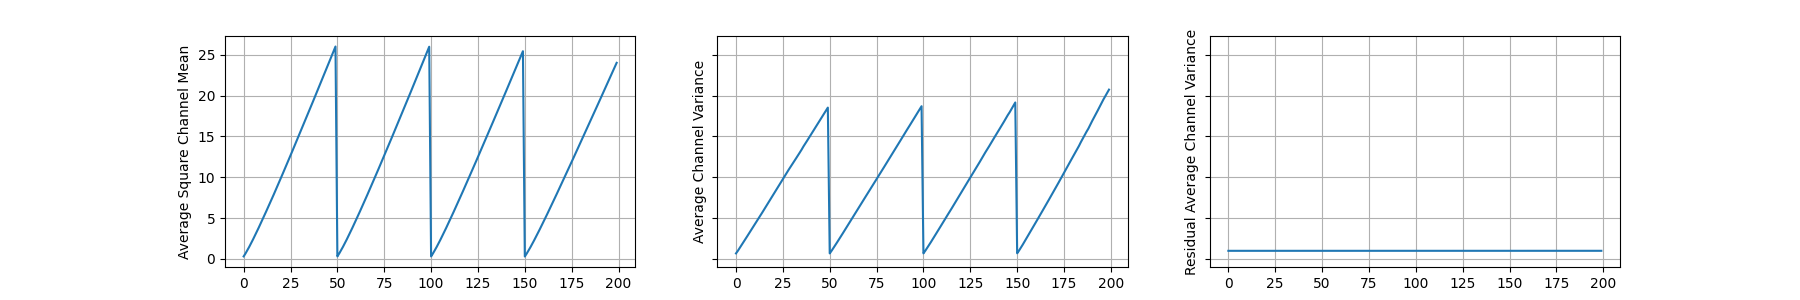
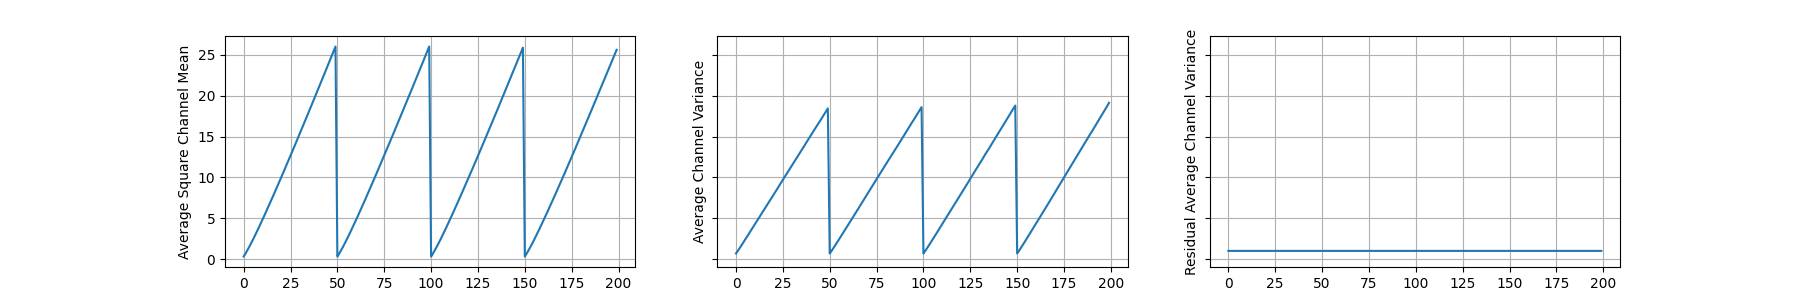
feat: Implement SPPs video

Changed region(s): [[0.1244, 0.21, 0.3422, 0.48], [0.4044, 0.36, 0.6222, 0.57], [0.6844, 0.45, 0.9022, 0.48]]

diff --git a/spp.py b/spp.py
@@ -2,7 +2,7 @@ import torch
 import fnmatch
 from torchvision.models.resnet import _resnet, Bottleneck
 from matplotlib import pyplot as plt
-from matplotlib import animation
+from celluloid import Camera
 
 
 # Model used in Brock et al.,
@@ -51,6 +51,10 @@ class ActivationStatsHook(object):
             module.register_forward_hook(self._create_hook(hook_fn))
             self.info[hook_fn.__name__].append(name)
 
+    def clear_stats(self):
+        hook_fns = self.hook_fns
+        self.stats = dict((hook_fn.__name__, []) for hook_fn in hook_fns)
+
     def extract_spp_stats(self, x=None):
         if x is None:
             input_shape = [8, 3, 224, 224]
@@ -71,8 +75,6 @@ class ActivationStatsAnimation(object):
     def _make_fig(self, ax, data):
         avg_sq_ch_mean, avg_ch_var, avg_ch_var_residual = data
 
-        plt.axes(ylim=(-1, self.y_max))
-
         ax[0].clear()
         ax[0].plot(avg_sq_ch_mean, label="avg_sq_ch_mean")
         ax[0].set_ylabel('Average Square Channel Mean')
@@ -88,21 +90,20 @@ class ActivationStatsAnimation(object):
         ax[2].set_ylabel('Residual Average Channel Variance')
         ax[2].grid()
 
-    # frames of FuncAnimation
-    def _data_gen(self):
-        for k in self.log.keys():
-            yield self.log[k]['avg_sq_ch_mean'], self.log[k]['avg_ch_var'], self.log[k]['avg_ch_var_residual']
-
     def save(self, save_path):
         assert save_path is not None, "There is no `save_path`"
         fig, ax = plt.subplots(1, 3, figsize=(18, 3), sharey=True)
+        camera = Camera(fig)
 
-        # func of FuncAnimation
-        def animate(data):
+        for k in self.log.keys():
+            data = (self.log[k]['avg_sq_ch_mean'],
+                    self.log[k]['avg_ch_var'],
+                    self.log[k]['avg_ch_var_residual'])
             self._make_fig(ax, data)
+            camera.snap()
 
-        anim = animation.FuncAnimation(fig, animate, self._data_gen)
-        anim.save(save_path, writer=animation.PillowWriter(fps=self.fps))
+        animation = camera.animate(interval=50, blit=True)
+        animation.save(save_path)
 
 
 class SignalPropagationPlots(object):
@@ -125,6 +126,7 @@ class SignalPropagationPlots(object):
         self._hook_info()
 
     def stats(self, x=None):
+        self.hook.clear_stats()
         return self.hook.extract_spp_stats(x)
 
     @staticmethod
@@ -158,7 +160,7 @@ def main():
     # Configuration
     model = resnet_v2_600()
     img_save_path = "assets/img/spp.png"
-    gif_save_path = "assets/img/spp.gif"
+    mp4_save_path = "assets/img/spp.mp4"
     x = torch.normal(0., 1., [8, 3, 224, 224])
 
     # Initialize SPPs
@@ -167,14 +169,13 @@ def main():
 
     # Save images
     stats = spp.stats(x)
-    spp.plot(stats)
     spp.save(stats, save_path=img_save_path)
 
-    # Save GIF
+    # Save video
     for step in range(10):
         stats = spp.stats(x + step/10)
         spp.anim.write(stats, step)
-    spp.anim.save(save_path=gif_save_path)
+    spp.anim.save(save_path=mp4_save_path)
 
 
 if __name__ == "__main__":
